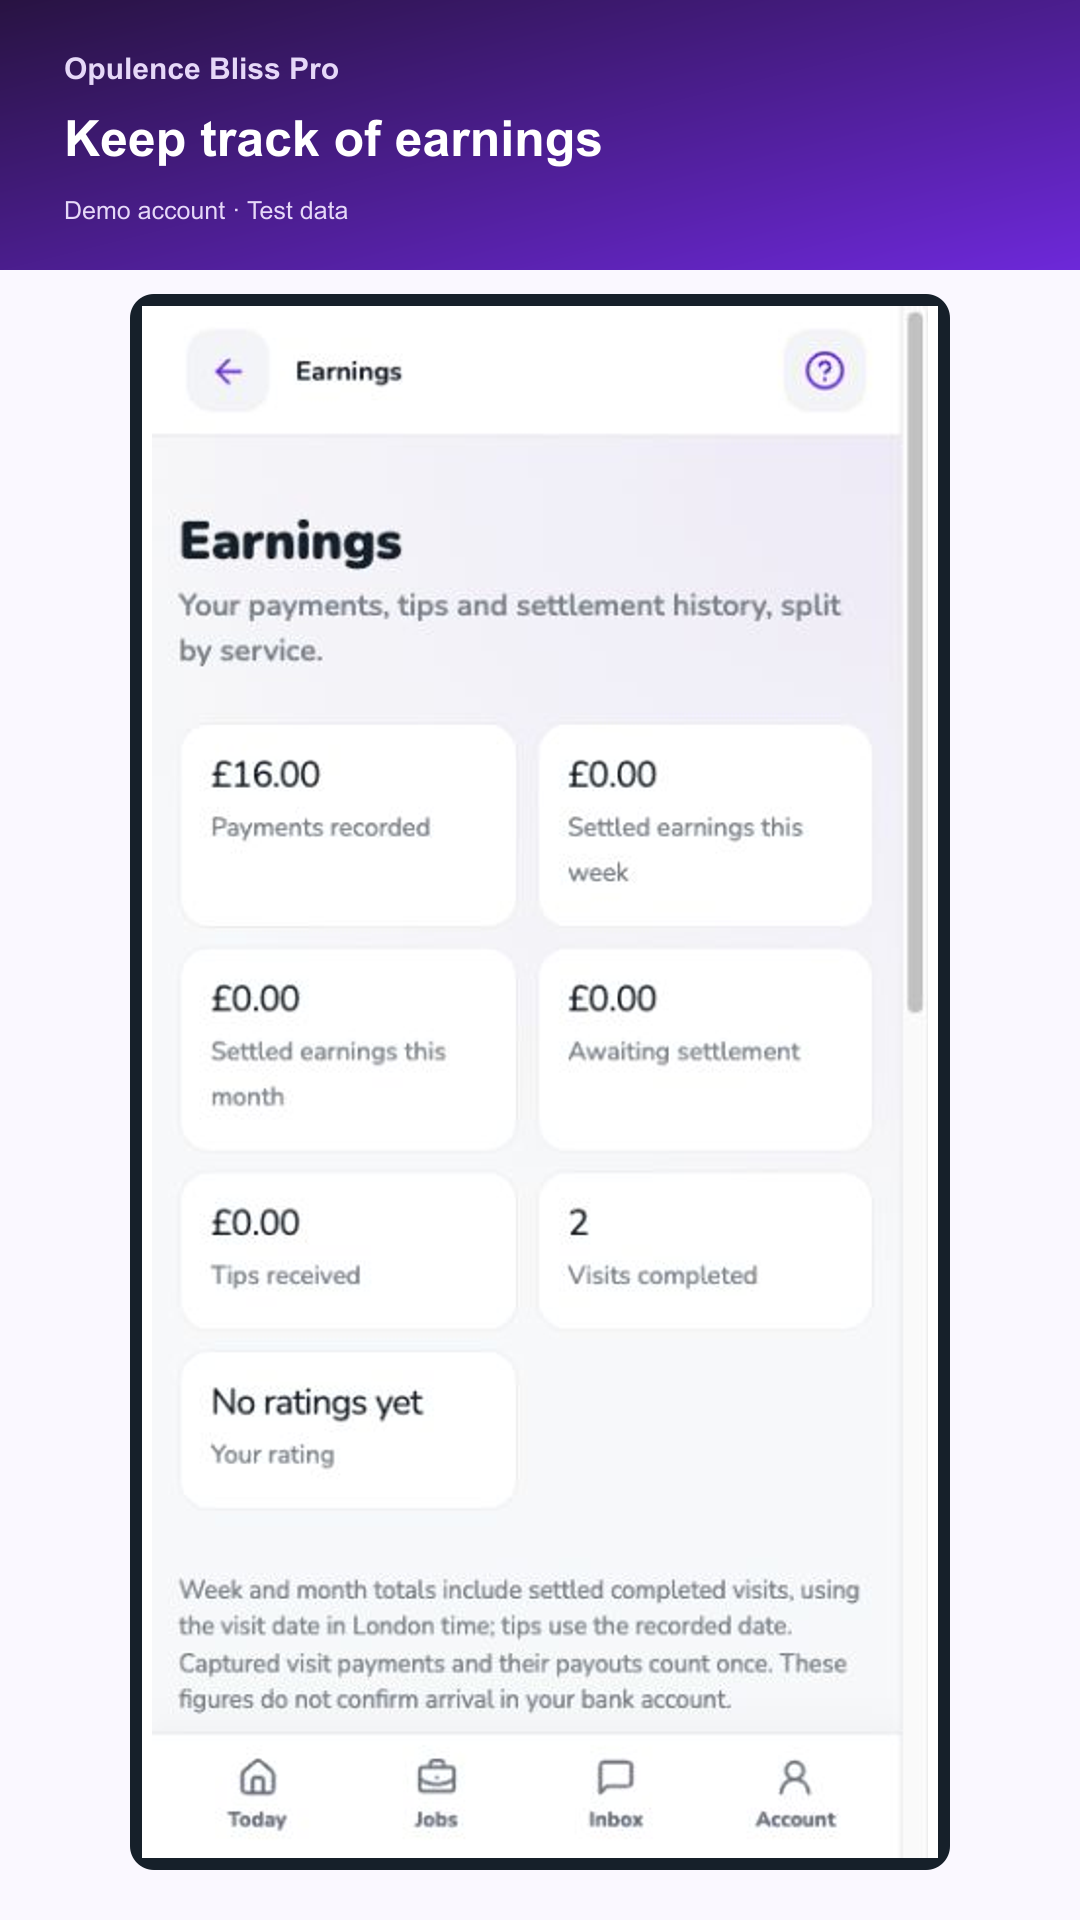
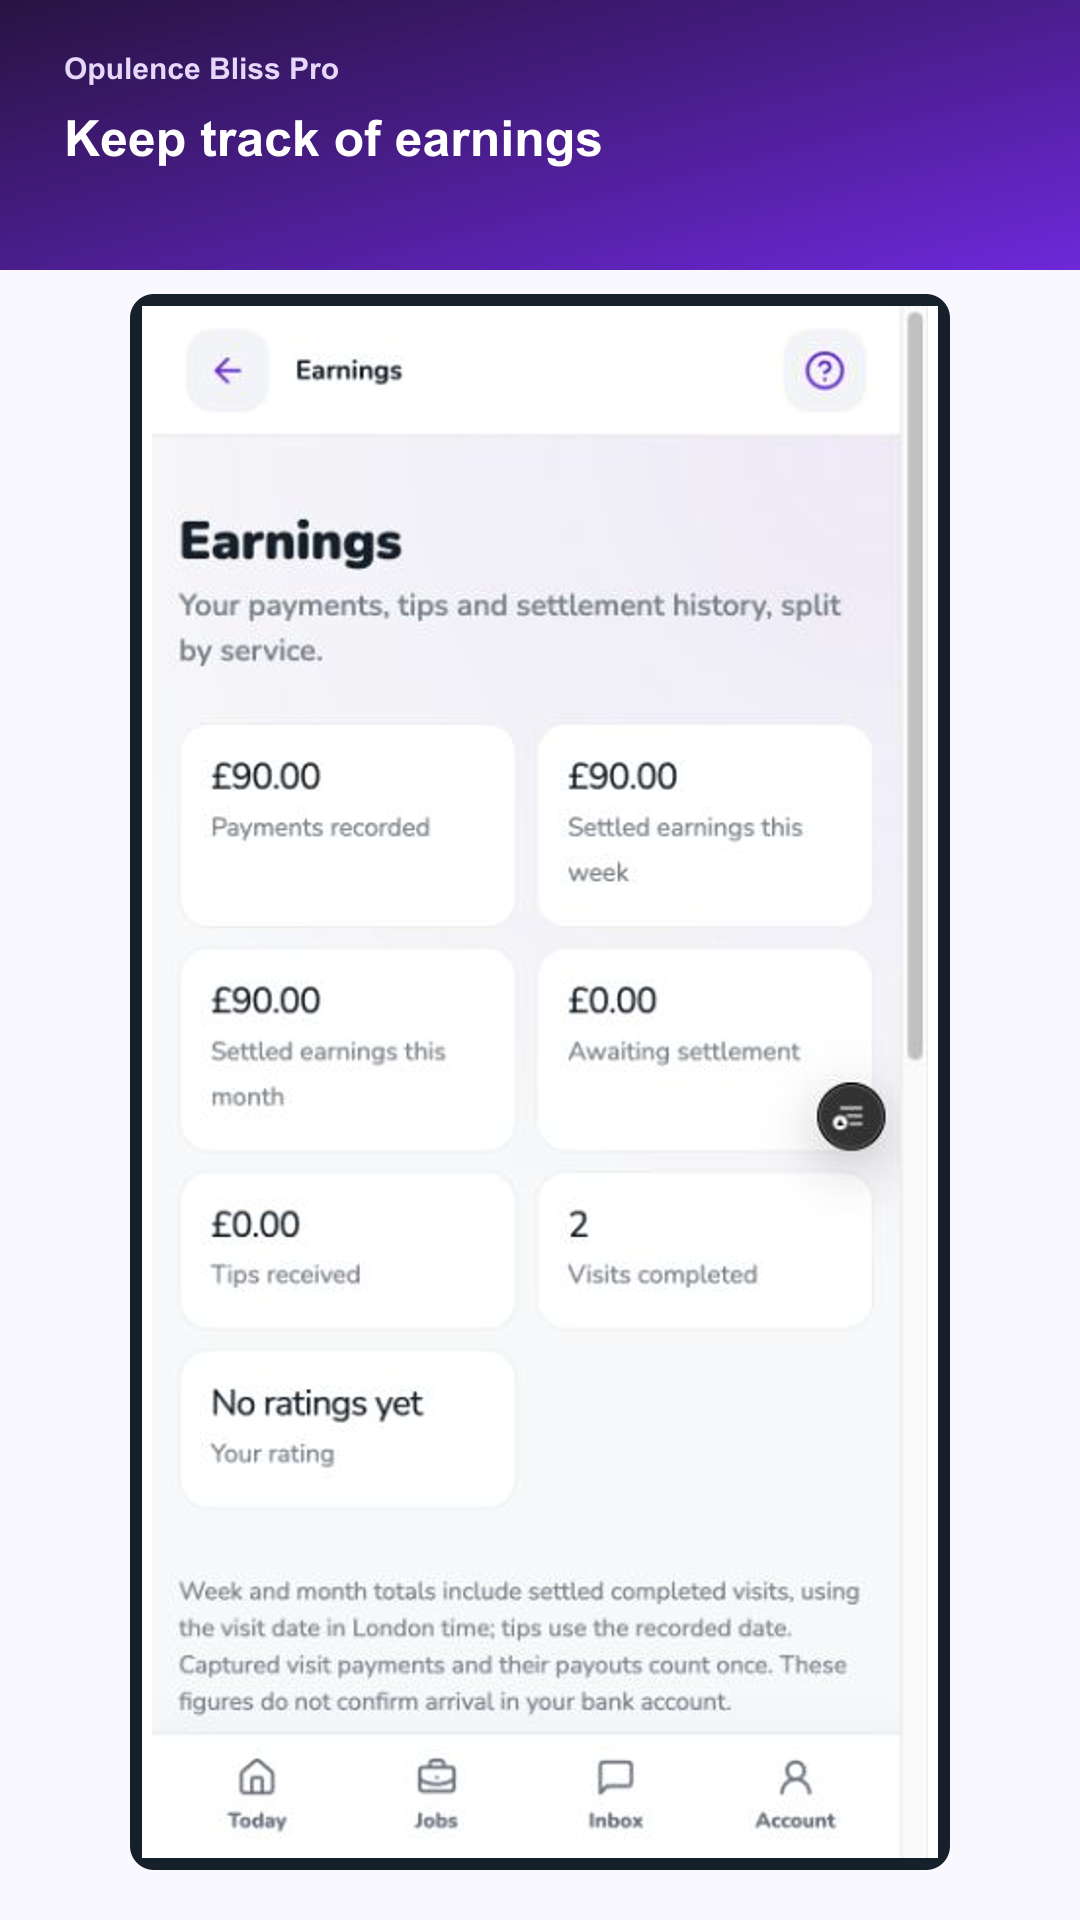
Refresh store captures and document staged push acceptance checks

diff --git a/app/api/cron/web-push/route.ts b/app/api/cron/web-push/route.ts
@@ -14,8 +14,12 @@ export async function GET(req: Request) {
       process.env.NEXT_PUBLIC_SUPABASE_URL!,
       process.env.SUPABASE_SERVICE_ROLE_KEY!,
     );
-    const result = await deliverWebPush(admin);
-    const email = await deliverExtraNotificationEmails(admin);
+    // Independent bounded outboxes must fit within the cron's 60s ceiling,
+    // including when provider requests take their full timeout.
+    const [result, email] = await Promise.all([
+      deliverWebPush(admin),
+      deliverExtraNotificationEmails(admin),
+    ]);
     return Response.json(
       { ...result, email },
       {

diff --git a/docs/web-push-staging.md b/docs/web-push-staging.md
@@ -50,8 +50,28 @@ device only after authentication and eligibility checks.
 Push is opt-in after a customer's first real booking or a professional's
 approval. Permission is requested only by the Enable button, not on page load
 or Android launch. The account/profile screen exposes the same control and a
-global push opt-out. Existing booking/message/app-alert preferences are checked
-both when queuing and immediately before delivery. Email/SMS consent is separate.
+per-device on/off control. A friendly card precedes the system prompt; only
+"Turn on" asks for permission. "Not now" records a server-side 14-day snooze.
+Blocked permission shows settings instructions, not another permission request.
+Account profile settings contain the customer/professional type-by-channel matrix,
+device list/removal and a rate-limited own-device test. Push choices are scoped to
+this device; email and SMS choices are account-wide. Legacy opt-outs are preserved
+until explicitly changed. **Updates always stay on**; the old suppressing trigger
+is removed. Essential security, payment-problem, booking-change/cancellation and
+verification-expiry emails bypass optional choices. Marketing stays separate,
+off by default, with the existing consent audit. SMS remains off on staging.
+All active email/SMS senders recheck preferences before sending; the new small
+email outbox covers job-taken, checks, payout and payment notices not already
+handled by the existing booking/matching/chat/direct mail producers. New staging
+outbox emails are restricted to `STAGING_EMAIL_RECIPIENTS`.
+
+Migration `20261022000100_notification_channels.sql` follows staging's newest
+`20261021000300`. It is applied only on `comwdjprdedmsnxtvuuk`, with exact source
+stored/checked in the migration ledger. It adds per-device preferences and retains
+the existing auth-session, account, approval, offer freshness and delivery leases.
+Insurance expiry notices extend the existing daily verification scheduler, without
+changing insurance approval or job eligibility. Device removal is serialized with
+enrolment; background refresh cannot silently restore a removed subscription.
 Existing access-control/DBS/service checks remain the authority for working.
 
 Endpoints and encryption keys have RLS with no client table access. Only narrow
@@ -81,6 +101,42 @@ installed app receives delegation. Verify this with **both apps installed**;
 do not claim two independent native FCM channels or guaranteed dual delivery.
 
 ## Tests before approving
+
+Current automated checks: **410 passing tests**, TypeScript, Next.js 16.4.2 build,
+changed-file lint (no errors), isolated PostgreSQL 17 CI, and both Android debug
+build/lint tasks. Hosted Preview checks pass for both synthetic accounts: type/
+channel saves, 14-day snooze, device isolation/removal, refusal to silently enrol a
+removed device, Updates retention, preference export and read-before-dispatch
+suppression. Hosted SQL confirms optional emails off while security, cancellations
+and payment-problem emails remain allowed. This is not proof of mailbox delivery.
+
+The only live deployment used is the feature branch **Preview**, not Production
+and not a merge into `codex/staging`. PR #37 remains open.
+
+For physical Android testing, build separate debug-only `.staging` apps with:
+
+```
+cd mobile/android
+JAVA_HOME=/opt/homebrew/opt/openjdk@17 ANDROID_HOME="$ANDROID_SDK_ROOT" bash ./gradlew \
+  :app:assembleCustomerDebug :app:assembleWorkerDebug \
+  -PstagingHost=opulence-bliss-app-mainv2-git-codex-pu-969797-muad500s-projects.vercel.app
+```
+
+Packages: `com.opulencebliss.app.staging` and `com.opulencebliss.worker.staging`.
+These do not replace Production apps. The matching public debug certificate is
+served only on the guarded staging Preview; Production's association stays
+unchanged. No release task/signing is allowed with `stagingHost`.
+
+**Still required:** Chrome desktop permission/delivery, Chrome Android, and both
+installed TWAs on an actual Android 13+ phone (including background delivery,
+allow/deny, opening system settings and app identity with both installed).
+The local Mac was locked during the interactive click check; no Android device
+was connected. Read-only browser screens were verified separately. The staging
+app association file returns **302 to Vercel sign-in without a bypass**, versus
+200 with authorised automation. Android verification cannot send the private
+bypass header. **Physical TWA tests are blocked until the owner provides a
+staging origin whose `/.well-known/assetlinks.json` is publicly accessible.**
+Do not embed a bypass credential in an APK or disable protection without approval.
 
 1. `npm test`, `npx tsc --noEmit`, website build and isolated SQL fixture.
 2. Build/lint customer and worker Android debug variants (no release signing).

diff --git a/mobile/store-assets/README.md b/mobile/store-assets/README.md
@@ -6,16 +6,20 @@ Bliss; `professional/` is Opulence Bliss Pro. These use the current exact site
 icons, pending the client's high-resolution logo. Nothing is uploaded to Play.
 
 `source/` contains **real staging browser screenshots**, captured at a phone
-viewport on 21 October 2026. They are not generated/mock app interfaces and are
+viewport on 22 October 2026. They are not generated/mock app interfaces and are
 not photographs of an Android device. The framing adds only branding, a caption
-and a Demo account / Test data label; the captured UI remains unchanged.
-Screens use synthetic private QA accounts, demo names and a labelled fictional
-address. Pro payment amounts are existing Stripe **test-mode** fixture results.
+without a "Demo account · Test data" label; the captured UI remains unchanged.
+Screens use synthetic private QA accounts and fictional fixtures. The refreshed
+Pro workday has scheduled visits, a normal working week and a populated inbox.
+Earnings use explicitly marked **database-only staging artwork fixtures**; no
+real charge or transfer was made to create the screenshots. Those fixtures must
+not be treated as Stripe end-to-end payment test evidence.
 There are no real customer names, emails, addresses, private keys or tokens.
-The blank Pro inbox is an honest empty state, not a fabricated conversation.
+The conversation was sent through the real staging booking-chat function between
+the two synthetic accounts, not painted onto a screenshot.
 
 `manifest.json` records source paths, screen routes and SHA-256 hashes. The
-origin is the protected staging alias, never the live production site. Auth
+origin is the protected feature-branch staging Preview, never the live production site. Auth
 confirmation URLs and deployment-protection secrets are deliberately excluded.
 Rebuild the PNG exports from these captures with:
 
